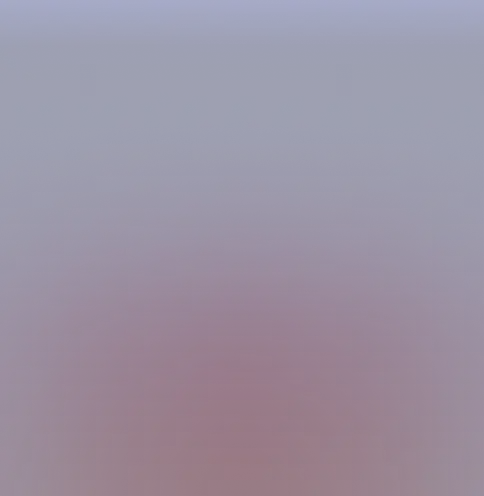
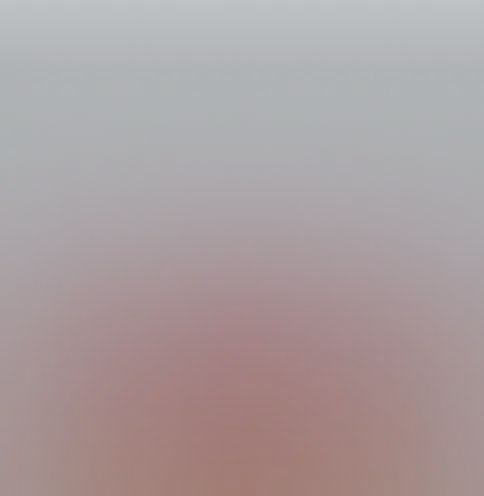
chore: style

Changed region(s): [[0.0, 0.0, 1.0, 0.0907]]

diff --git a/components/developer/verify/SteamAppItem.tsx b/components/developer/verify/SteamAppItem.tsx
@@ -7,8 +7,8 @@ import Button from '../../button';
 import Message from '../../message';
 import { SteamApp } from '../Verify';
 import { CloseCircle } from '../../svg/CloseCircle';
-import { fetchDeveloperGame } from '../../../lib/api';
-import { roadmapModalAtom } from '../../../store/roadmap/state';
+import { fetchDeveloperGame } from '@/lib/api';
+import { roadmapModalAtom } from '@/store/roadmap/state';
 
 type SteamGameItemProps = {
   app: SteamApp;
@@ -31,21 +31,21 @@ function SteamAppItem({ app, onConfirm, onRemove, index }: SteamGameItemProps) {
   });
 
   return (
-    <div className="h-[72px] overflow-hidden rounded-2xl bg-gray-800/80">
+    <div className="h-[72px] overflow-hidden rounded-2xl bg-gray-700/30">
       {app.steam_appid ? (
-        <div className="relative h-[72px] overflow-hidden rounded-2xl bg-gray-800/80 pr-4">
+        <div className="relative h-[72px] overflow-hidden rounded-2xl pr-4">
           <div
             className="relative float-left mr-4 flex h-[72px] w-full items-center justify-start bg-[#CEDCFF]/10 bg-cover"
             style={{ maxWidth: 'min(33%, 168px)' }}
           >
             <img src={app.header_image} className="h-auto w-full object-cover" alt="header_image" />
             <div className="absolute bottom-0 left-0 h-[42px] w-[42px] md:hidden">
-              <span className="absolute top-5 left-1 z-10 text-sm font-medium">0{index}</span>
+              <span className="absolute left-1 top-5 z-10 text-sm font-medium">0{index}</span>
               <img src="/svg/index.svg" width={42} height={42} alt="index" />
             </div>
           </div>
           <div className="sm:flex sm:flex-col-reverse">
-            <div className="float-right mt-6 sm:float-none sm:mt-0">
+            <div className="float-right mt-6 flex sm:float-none sm:mt-0">
               <span className="mr-2 cursor-pointer align-top font-ddin text-2xl font-bold" onClick={() => setOpen(true)}>
                 ?,???
               </span>
@@ -60,7 +60,7 @@ function SteamAppItem({ app, onConfirm, onRemove, index }: SteamGameItemProps) {
             </div>
           </div>
           <div className="clear-both"></div>
-          <div className="absolute top-1.5 right-1.5" onClick={onRemove}>
+          <div className="absolute right-1.5 top-1.5" onClick={onRemove}>
             <CloseCircle />
           </div>
         </div>

diff --git a/components/ranking/GamerTokenRankingItem.tsx b/components/ranking/GamerTokenRankingItem.tsx
@@ -7,7 +7,7 @@ import { formatMinutes, getCountMemo, openLink } from '../../utils';
 
 export function GamerTokenRankingHeader() {
   return (
-    <div className="flex px-4 pt-5 pb-2.5 text-xs font-medium sm:py-2">
+    <div className="flex px-4 pb-2.5 pt-5 text-xs font-medium sm:py-2">
       <p className="w-[55px]">Rank</p>
       <p className="flex-1">User Info</p>
       <p className="w-[70px] 2xl:w-[120px]">Badge</p>
@@ -32,7 +32,7 @@ export default function GamerTokenRankingItem({ data }: GamerTokenRankingItemPro
   return (
     <div
       onClick={handleToSteamProfile}
-      className="flex cursor-pointer items-center justify-start overflow-hidden rounded-2xl bg-gray-800/80 px-3 py-[10px] hover:bg-[#7980AF]/20 sm:px-2"
+      className="flex cursor-pointer items-center justify-start overflow-hidden rounded-2xl bg-gray-700/30 px-3 py-[10px] hover:bg-gray-700/60 sm:px-2"
     >
       <div className="mr-2 w-[30px] flex-none text-center text-xs font-medium leading-[44px] 2xl:mr-4 2xl:w-[40px]">
         {getCountMemo(data.index)}
@@ -41,13 +41,13 @@ export default function GamerTokenRankingItem({ data }: GamerTokenRankingItemPro
         <div className="float-left mr-2 h-[44px] w-[44px] flex-none overflow-hidden rounded bg-[#CEDCFF]/10">
           {data.avatar_full && <img loading="lazy" src={data.avatar_full} alt="avatar" />}
         </div>
-        <div className="float-right ml-2 flex-none rounded bg-blue-550/20 py-1 px-2 lg:hidden xs:hidden">
+        <div className="float-right ml-2 flex-none rounded bg-blue-550/20 px-2 py-1 lg:hidden xs:hidden">
           <p className="border-b border-blue-550/30 pb-[3px] text-center text-xs leading-[14px] text-blue">SS Games</p>
           <p className="text-p12-lin mt-1 text-center text-xs leading-[14px] text-blue">
             {data.ss_game_playtime !== undefined ? data.ss_game_count + '/' + formatMinutes(data.ss_game_playtime) : '--'}
           </p>
         </div>
-        <div className="float-right ml-2 rounded bg-blue-550/20 py-1 px-2">
+        <div className="float-right ml-2 rounded bg-blue-550/20 px-2 py-1">
           <p className="border-b border-blue-550/30 pb-[3px] text-center text-xs leading-[14px] text-blue">Steam year</p>
           <p className="mt-1 text-center text-xs leading-[14px] text-blue">
             {data.time_created ? dayjs.unix(data.time_created).format('YYYY') : '--'}

diff --git a/components/developer/Verify.tsx b/components/developer/Verify.tsx
@@ -5,18 +5,18 @@ import { useSetRecoilState } from 'recoil';
 import { useCopyToClipboard } from 'react-use';
 import { useAccount, useSignMessage } from 'wagmi';
 import { useMutation, useQueryClient } from '@tanstack/react-query';
-import Button from '../button';
-import Message from '../message';
-import { STORAGE_KEY } from '../../constants';
-import { getVerifySignData } from '../../utils';
+import Button from '@/components/button';
+import Message from '@/components/message';
+import { STORAGE_KEY } from '@/constants';
+import { getVerifySignData } from '@/utils';
 import SteamAppItem from './verify/SteamAppItem';
-import { fetchDeveloperVerify } from '../../lib/api';
-import { getLocalStorage } from '../../utils/storage';
-import { getErrorToast } from '../../utils/developer';
+import { fetchDeveloperVerify } from '@/lib/api';
+import { getLocalStorage } from '@/utils/storage';
+import { getErrorToast } from '@/utils/developer';
 import { AddGameTips, OwnershipTips } from './verify/Tips';
-import { tabSelectAtom, verifiedSteamAppAtom } from '../../store/developer/state';
-import { DeveloperVerifyData, DeveloperVerifyParams, DevGameInfo, Response } from '../../lib/types';
-import { useIsMounted } from '../../hooks/useIsMounted';
+import { tabSelectAtom, verifiedSteamAppAtom } from '@/store/developer/state';
+import { DeveloperVerifyData, DeveloperVerifyParams, DevGameInfo, Response } from '@/lib/types';
+import { useIsMounted } from '@/hooks/useIsMounted';
 
 export type SteamApp = Partial<DevGameInfo> & { index: number };
 
@@ -149,9 +149,9 @@ function Verify() {
             <h3 className="text-xl font-medium">
               YOUR SIGNATURE <span className="text-base font-normal">(you can check later too)</span>
             </h3>
-            <div className="relative mt-3 max-w-[620px] whitespace-pre-line break-words rounded-2xl bg-gray-800/80 p-6 pb-16">
+            <div className="relative mt-3 max-w-[620px] whitespace-pre-line break-words rounded-2xl bg-gray-700/30 p-6 pb-16">
               {isMounted && address ? signature : 'Please connect your wallet first.'}
-              <div className="absolute right-5 bottom-5">
+              <div className="absolute bottom-5 right-5">
                 {isMounted && address ? (
                   isSig ? (
                     <Button

diff --git a/components/ranking/GamerTimeRankingItem.tsx b/components/ranking/GamerTimeRankingItem.tsx
@@ -5,7 +5,7 @@ import { formatMinutes, openLink } from '../../utils';
 
 export function GamerTimeRankingHeader() {
   return (
-    <div className="flex px-4 pt-5 pb-2.5 text-xs font-medium sm:py-2">
+    <div className="flex px-4 pb-2.5 pt-5 text-xs font-medium sm:py-2">
       <p className="w-[90px] sm:hidden">Timestamp</p>
       <p>User Info</p>
     </div>
@@ -30,7 +30,7 @@ export default function GamerTimeRankingItem({ data }: GamerTimeRankingItemProps
   return (
     <div
       onClick={handleToSteamProfile}
-      className="flex cursor-pointer items-center justify-start overflow-hidden rounded-xl bg-gray-800/80 px-3 py-[14px] hover:bg-[#7980AF]/20 sm:px-2"
+      className="flex cursor-pointer items-center justify-start overflow-hidden rounded-xl bg-gray-700/30 px-3 py-[14px] hover:bg-gray-700/60 sm:px-2"
     >
       <div className="mr-2 h-[44px] flex-none break-words pt-1 text-xs font-medium sm:hidden 2xl:mr-4">
         <p>{data.createdAt && dayjs(data.createdAt).format('MMM D, YYYY')}</p>
@@ -55,13 +55,13 @@ export default function GamerTimeRankingItem({ data }: GamerTimeRankingItemProps
             <path d="M16.5 10L7.5 10" strokeWidth="1.75" />
           </svg>
         </div>
-        <div className="float-right mr-2 rounded bg-blue-550/20 py-1 px-2 lg:hidden xs:hidden">
+        <div className="float-right mr-2 rounded bg-blue-550/20 px-2 py-1 lg:hidden xs:hidden">
           <p className="border-b border-blue-550/30 pb-[3px] text-center text-xs leading-[14px] text-blue">SS Games</p>
           <p className="mt-1 text-center text-xs leading-[14px] text-blue">
             {data.ss_game_playtime !== undefined ? data.ss_game_count + '/' + formatMinutes(data.ss_game_playtime) : '--'}
           </p>
         </div>
-        <div className="float-right mr-2 rounded bg-blue-550/20 py-1 px-2">
+        <div className="float-right mr-2 rounded bg-blue-550/20 px-2 py-1">
           <p className="border-b border-blue-550/30 pb-[3px] text-center text-xs leading-[14px] text-blue">Steam year</p>
           <p className="mt-1 text-center text-xs leading-[14px] text-blue">
             {data.time_created ? dayjs.unix(data.time_created).format('YYYY') : '--'}

diff --git a/components/gamer/SteamValue.tsx b/components/gamer/SteamValue.tsx
@@ -24,18 +24,18 @@ export default function SteamValue({ data }: SteamValueProps) {
     <div className="mt-8 flex sm:mt-4 md:flex-col">
       <div className="w-full max-w-[300px] md:max-w-full">
         <div className="flex items-center">
-          <h4 className="text-xl font-medium">My Account Value</h4>
+          <h4 className="text-xl font-medium">Steam Account Socre</h4>
           <Tooltip label="Represents your Steam store value of games owned.">
             <img src="/svg/question.svg" className="ml-2 cursor-pointer" width={18} height={18} alt="question" />
           </Tooltip>
         </div>
-        <div className="mt-3 rounded-lg border border-orange bg-[#F36E22]/20 py-6 text-center font-ddin text-[48px] font-bold leading-[48px] text-orange">
-          {Math.floor(data.value || 0)}
+        <div className="bg-gradient-item  mt-3 rounded-lg py-6 text-center font-ddin">
+          <span className="text-gradient-yellow text-5xl/12 font-bold">{Math.floor(data.value || 0)}</span>
         </div>
       </div>
       <div className="ml-9 w-full md:ml-0 md:mt-4">
         <div className="flex items-center">
-          <h4 className="text-xl font-medium">My Inventory Value</h4>
+          <h4 className="text-xl font-medium">Inventory Value</h4>
           <Tooltip label="Represents your inventory value of CSGO, DOTA2 and TF2.">
             <img src="/svg/question.svg" className="ml-2 cursor-pointer" width={18} height={18} alt="question" />
           </Tooltip>
@@ -48,7 +48,7 @@ export default function SteamValue({ data }: SteamValueProps) {
                   <img width={112} height={72} src={item.img} className="rounded-lg object-cover lg:hidden" alt="game" />
                   <div className="ml-2 2xl:ml-4">
                     <p className="font-medium">{item.name}</p>
-                    <div className="mt-1.5 font-ddin text-[42px] font-bold leading-[42px] text-green lg:text-2xl xl:text-2xl">
+                    <div className="text-gradient-yellow mt-1.5 font-ddin text-[42px]/[42px] font-bold lg:text-2xl xl:text-2xl">
                       {Math.floor(item.value)}
                     </div>
                   </div>

diff --git a/styles/globals.css b/styles/globals.css
@@ -27,8 +27,8 @@
     }
 
     .backdrop-box {
-        background: rgba(68, 70, 95, 0.5);
-        border: 2px solid rgb(70, 75, 90);
+        background: rgba(61, 68, 75, 0.5);
+        border: 1px solid rgb(70, 75, 90);
         backdrop-filter: blur(16px);
     }
 
@@ -169,7 +169,7 @@
         @apply relative cursor-pointer overflow-hidden rounded-2xl backdrop-blur;
         @apply flex flex-col items-center justify-center;
     }
-    
+
     .copy__btn {
         background: linear-gradient(180deg, #7CD645 5%, #2E5F19 46.81%, #5EAA30 100%);
         box-shadow: 0 2px 4px rgba(0, 0, 0, 0.35);
@@ -200,7 +200,7 @@
         border: 1px solid #4E4E50;
         backdrop-filter: blur(25px);
     }
-    
+
 }
 
 @layer utilities {
@@ -225,9 +225,20 @@
     }
 
     .bg-gradient-item {
-        background: linear-gradient(to bottom, #4E56917F 0%, #3B41677F 10%, #3C41647F 16%, #3C41647F 100%);
+        background: linear-gradient(to bottom, #5D646C7F, #393F467F 15%, #23262C7F);
         backdrop-filter: blur(16px);
-        border: 1px solid #616985;
+        border: 1px solid #6F77847F;
+    }
+
+    .bg-gradient-collab {
+        cursor: pointer;
+        background: linear-gradient(to bottom, #3D444B66, #23262C66);
+        backdrop-filter: blur(16px);
+        border: 1px solid #6F77847F;
+    }
+
+    .bg-gradient-collab:hover {
+        background: linear-gradient(to bottom, #3D444BAD, #23262CAD);
     }
 
     .bg-p12-poster-0 {

diff --git a/components/developer/GameList.tsx b/components/developer/GameList.tsx
@@ -43,10 +43,10 @@ export default function GameList() {
           {list.map((game) => (
             <div
               key={game.appid}
-              className={classNames('relative mr-[13px] inline-block w-[315px] rounded-t-2xl bg-gray-800 p-2.5 last:mr-0')}
+              className={classNames('relative mr-[13px] inline-block w-[315px] rounded-t-2xl p-2.5 last:mr-0')}
             >
               <div className="flex">
-                <div className="mr-3 h-[72px] w-[112px] overflow-hidden rounded-2xl bg-[#CEDCFF]/10">
+                <div className="mr-3 h-[72px] w-[112px] overflow-hidden rounded-2xl bg-gray-700/30">
                   {game.header_image ? (
                     <img loading="lazy" className="h-[72px] w-[112px] object-cover" src={game.header_image} alt="" />
                   ) : (

diff --git a/components/pl/PowerLevelBanner.tsx b/components/pl/PowerLevelBanner.tsx
@@ -14,7 +14,7 @@ export default function PowerLevelBanner() {
       className="flex-center relative cursor-pointer gap-6 rounded-2xl py-19 duration-200 hover:-translate-y-1"
       onClick={onClick}
     >
-      <div className="absolute inset-0 left-0 top-0 -z-10 overflow-hidden opacity-50">
+      <div className="absolute inset-0 left-0 top-0 -z-10 overflow-hidden">
         {banner && <video autoPlay loop muted className="w-full" src={banner} />}
       </div>
       <div className="absolute left-0 top-0 -z-10 h-[138px] w-full rounded-t-2xl bg-card-mask" />

diff --git a/styles/components/pagination.css b/styles/components/pagination.css
@@ -121,7 +121,6 @@
     min-width: 28px;
     height: 28px;
     color: rgba(0, 0, 0, 0.85);
-    font-family: Arial;
     line-height: 28px;
     text-align: center;
     vertical-align: middle;
@@ -241,7 +240,7 @@
 .rc-pagination-simple .rc-pagination-prev .rc-pagination-item-link,
 .rc-pagination-simple .rc-pagination-next .rc-pagination-item-link {
     height: 24px;
-    background-color: #4E5573;
+    background-color: #3D444B;
     border: 1px solid #6B7787;
     border-radius: 4px;
 }

diff --git a/components/collab/CollabListItem.tsx b/components/collab/CollabListItem.tsx
@@ -63,7 +63,7 @@ export default function CollabListItem({ data, loading }: CollabItemProps) {
         }
       }}
       className={classNames(
-        'flex cursor-pointer flex-col items-center gap-2 rounded-2xl bg-gray-800/80 p-4 pb-3 backdrop-blur-lg hover:bg-[#7980AF]/20 sm:px-2',
+        'bg-gradient-collab flex flex-col items-center gap-2 rounded-2xl p-4 pb-3 sm:px-2',
         loading ? 'animate-pulse' : null,
       )}
     >

diff --git a/components/collab/CollabSwiper.tsx b/components/collab/CollabSwiper.tsx
@@ -66,7 +66,7 @@ export default function CollabSwiper() {
               x: { type: 'spring', stiffness: 300, damping: 30 },
               opacity: { duration: 0.2 },
             }}
-            className="absolute grid h-full w-full grid-cols-2 gap-5 md:grid-cols-1"
+            className="absolute grid h-full w-full grid-cols-2 gap-4.5 md:grid-cols-1"
           >
             {isLoading ? (
               <>

diff --git a/tailwind.config.js b/tailwind.config.js
@@ -14,6 +14,7 @@ module.exports = {
         '2xl': '1366px',
       },
       spacing: {
+        4.5: '1.125rem',
         5.5: '1.375rem',
         7.5: '1.875rem',
         13: '3.25rem',
@@ -32,6 +33,7 @@ module.exports = {
         gray: {
           400: '#A5A6AB',
           DEFAULT: '#9A9DAA',
+          450: '#78797D',
           500: '#74788B',
           550: '#6F7784',
           600: '#4E556D',
